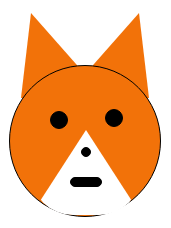
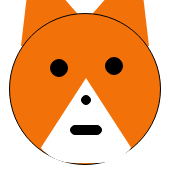
first commit

diff --git a/index.html b/index.html
@@ -112,15 +112,15 @@
    
         <h2>Projects</h2>
         <div class="pr1">
-             <a href="https://codepen.io/JTman/pen/RgZQmb"><img src="img/robofox.PNG" id="img1"></a>
+             <a href="https://codepen.io/JTman/pen/RgZQmb"><img src="img/robofox.PNG" class="pri"></a>
              <h3 class="it">CSS Creature</h3>
         </div>
         <div class="pr2">
-            <a href="https://jonathan-taylor5.github.io/Website/Index.html"><img src="img/Game_go.PNG"></a>
+            <a href="https://jonathan-taylor5.github.io/Website/Index.html"><img src="img/Game_go.PNG" class="pri"></a>
             <h3 class="it">Store app</h3>
         </div>
         <div class="pr1">
-            <a href="http://serene-plains-69792.herokuapp.com/"><img src="img/Friends.PNG"></a>
+            <a href="http://serene-plains-69792.herokuapp.com/"><img src="img/Friends.PNG" class="pri"></a>
             <h3 class="it">Friends list app</h3>
         </div>
     

diff --git a/css/grayscale.css b/css/grayscale.css
@@ -312,11 +312,6 @@ body {
   webkit-tap-highlight-color: rgba(255, 255, 255, 0.2);
 }
 
-#img1 {
-  height: 230px;
-  width: 170px;
-}
-
 .pr1 {
   margin: 40px 0 20px 150px;
   text-align: left;
@@ -327,6 +322,13 @@ body {
   margin: 40px 150px 20px 0;
   text-align: right;
   position: relative;
+}
+
+.pri {
+  height: 200px;
+  width: 200px;
+  border-radius: 100px;
+  border: 2px solid #42dca3;
 }
 
 .it {
